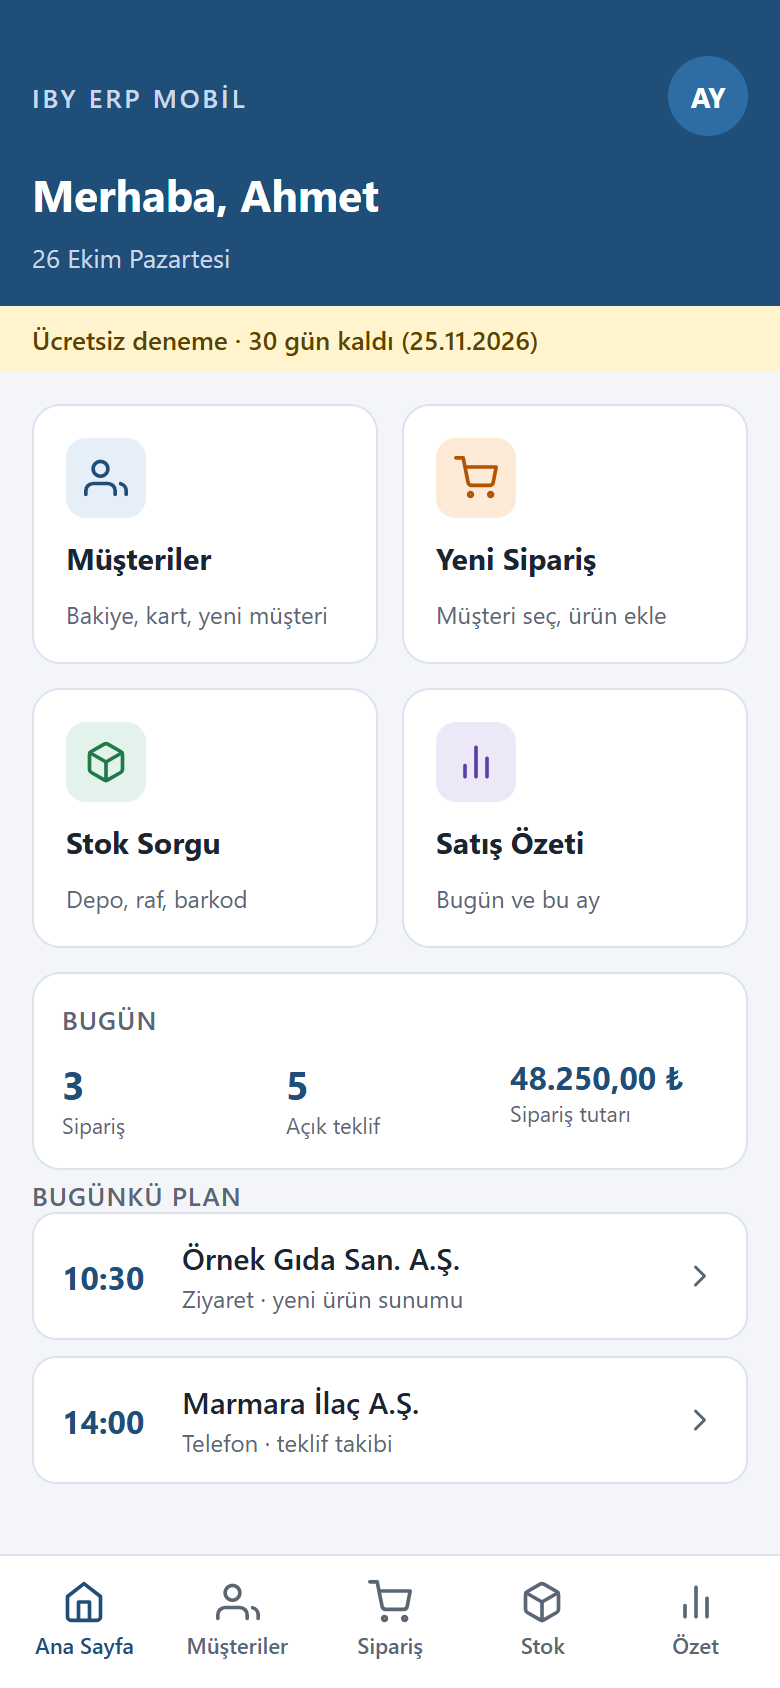
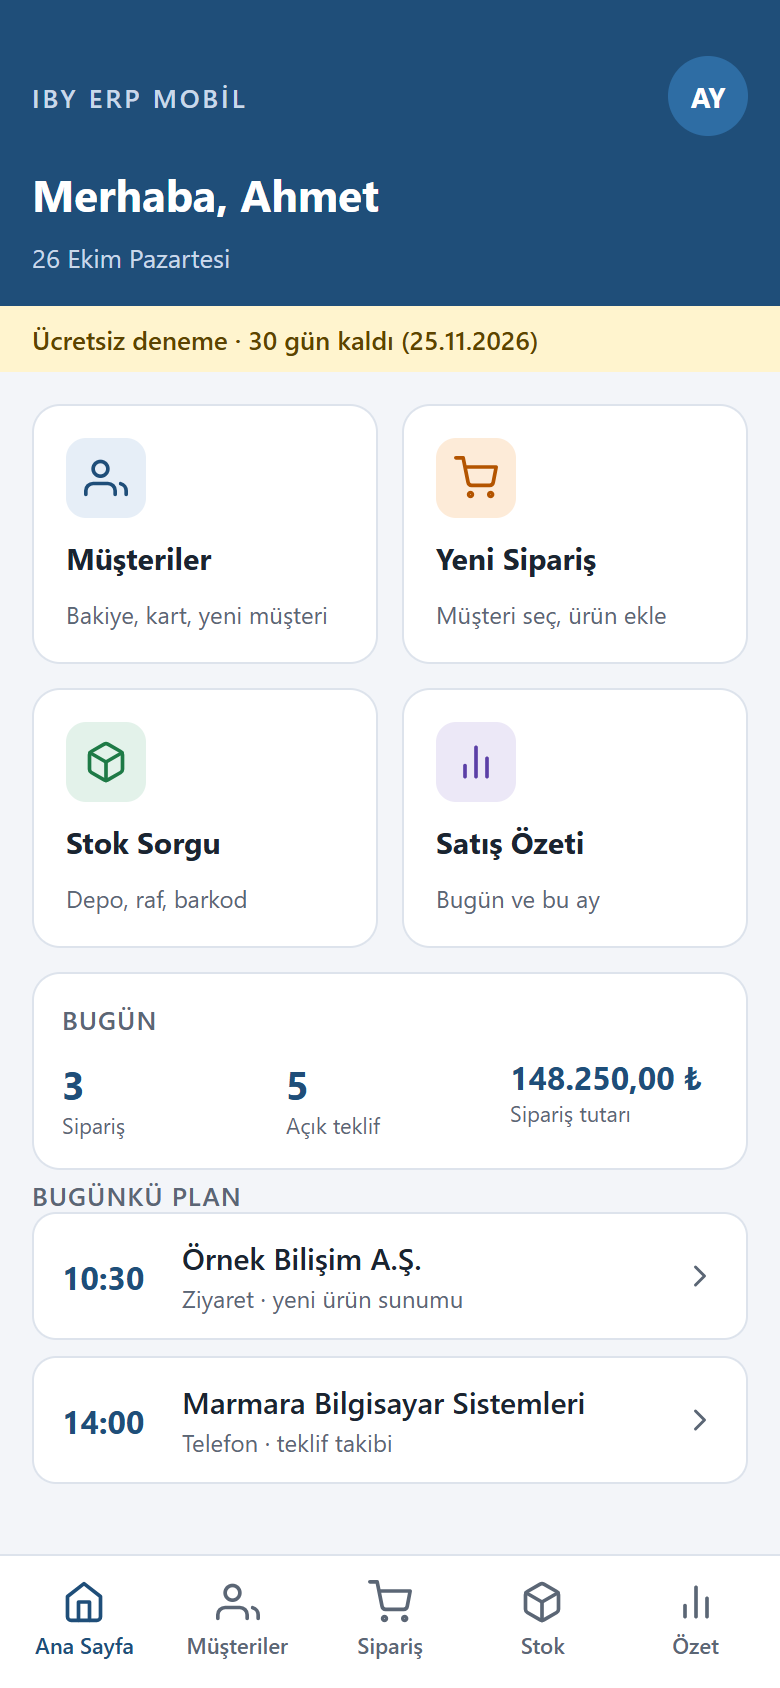
Mobil demo: örnek veriler bilgisayar parçaları ve bilişim firmaları

diff --git a/mobil/demo/demo.js b/mobil/demo/demo.js
@@ -8,36 +8,36 @@
   function saat(h, m) { return ('0' + h).slice(-2) + ':' + ('0' + m).slice(-2); }
 
   var MUSTERI = [
-    { id: 1, kod: 'MUS00001', ad: 'Örnek Gıda San. A.Ş.', sehir: 'Bursa', vkn: '1234567890', vergi_dairesi: 'Nilüfer', yetkili: 'Mehmet Kaya', telefon: '0224 000 00 01', email: 'satinalma@ornekgida.com', adres: 'Organize Sanayi Bölgesi 3. Cad. No:12 Nilüfer/Bursa', limit: 150000, bakiye: 84250, geciken: 12400, vade: 30,
-      belgeler: [['SIP-' + 'D-0141', 'Sipariş', -4, 18600, 'YENİ'], ['IBY2026000000412', 'Fatura', -11, 42300, 'KESILDI'], ['TK-D-0088', 'Teklif', -17, 25750, 'Onaylandı']] },
-    { id: 2, kod: 'MUS00002', ad: 'Anadolu Kozmetik Ltd. Şti.', sehir: 'İstanbul', vkn: '2345678901', vergi_dairesi: 'Tuzla', yetkili: 'Ayşe Demir', telefon: '0216 000 00 02', email: 'info@anadolukozmetik.com', adres: 'Aydınlı Mah. Sanayi Sok. No:4 Tuzla/İstanbul', limit: 60000, bakiye: 12400, geciken: 0, vade: 45,
-      belgeler: [['SIP-D-0137', 'Sipariş', -7, 12400, 'SEVK EDİLDİ']] },
-    { id: 3, kod: 'MUS00003', ad: 'Marmara İlaç A.Ş.', sehir: 'Kocaeli', vkn: '3456789012', vergi_dairesi: 'Gebze', yetkili: 'Can Öztürk', telefon: '0262 000 00 03', email: 'tedarik@marmarailac.com', adres: 'GOSB İhsan Dede Cad. No:8 Gebze/Kocaeli', limit: 120000, bakiye: 56900, geciken: 0, vade: 60,
-      belgeler: [['TK-D-0091', 'Teklif', -6, 38200, 'Taslak'], ['IBY2026000000398', 'Fatura', -20, 56900, 'KESILDI']] },
-    { id: 4, kod: 'MUS00004', ad: 'Yeşil Vadi Süt Ürünleri', sehir: 'Balıkesir', vkn: '4567890123', vergi_dairesi: 'Bandırma', yetkili: 'Zeynep Arslan', telefon: '0266 000 00 04', email: '', adres: 'Bandırma/Balıkesir', limit: 40000, bakiye: 0, geciken: 0, vade: 30,
-      belgeler: [['IBY2026000000377', 'Fatura', -24, 9800, 'Ödendi']] },
-    { id: 5, kod: 'MUS00005', ad: 'Ege Kimya Tic. Ltd. Şti.', sehir: 'İzmir', vkn: '5678901234', vergi_dairesi: 'Torbalı', yetkili: 'Murat Şahin', telefon: '0232 000 00 05', email: '', adres: 'Torbalı/İzmir', limit: 50000, bakiye: 21750, geciken: 3200, vade: 30,
-      belgeler: [['SIP-D-0129', 'Sipariş', -14, 21750, 'SEVK EDİLDİ']] },
-    { id: 6, kod: 'MUS00006', ad: 'Kuzey Lojistik A.Ş.', sehir: 'Ankara', vkn: '6789012345', vergi_dairesi: 'Ostim', yetkili: 'Elif Aydın', telefon: '0312 000 00 06', email: '', adres: 'Ostim OSB Ankara', limit: 80000, bakiye: 31200, geciken: 0, vade: 30, belgeler: [] }
+    { id: 1, kod: 'MUS00001', ad: 'Örnek Bilişim A.Ş.', sehir: 'Bursa', vkn: '1234567890', vergi_dairesi: 'Nilüfer', yetkili: 'Mehmet Kaya', telefon: '0224 000 00 01', email: 'satinalma@ornekbilisim.com', adres: 'Fethiye Mah. Teknoloji Cad. No:12 Nilüfer/Bursa', limit: 250000, bakiye: 184250, geciken: 22400, vade: 30,
+      belgeler: [['SIP-D-0141', 'Sipariş', -4, 48600, 'YENİ'], ['IBY2026000000412', 'Fatura', -11, 92300, 'KESILDI'], ['TK-D-0088', 'Teklif', -17, 125750, 'Onaylandı']] },
+    { id: 2, kod: 'MUS00002', ad: 'Anadolu Teknoloji Ltd. Şti.', sehir: 'İstanbul', vkn: '2345678901', vergi_dairesi: 'Kadıköy', yetkili: 'Ayşe Demir', telefon: '0216 000 00 02', email: 'info@anadoluteknoloji.com', adres: 'Hasanpaşa Mah. No:4 Kadıköy/İstanbul', limit: 150000, bakiye: 62400, geciken: 0, vade: 45,
+      belgeler: [['SIP-D-0137', 'Sipariş', -7, 62400, 'SEVK EDİLDİ']] },
+    { id: 3, kod: 'MUS00003', ad: 'Marmara Bilgisayar Sistemleri', sehir: 'Kocaeli', vkn: '3456789012', vergi_dairesi: 'İzmit', yetkili: 'Can Öztürk', telefon: '0262 000 00 03', email: 'tedarik@marmarabilgisayar.com', adres: 'Kozluk Mah. No:8 İzmit/Kocaeli', limit: 120000, bakiye: 56900, geciken: 0, vade: 60,
+      belgeler: [['TK-D-0091', 'Teklif', -6, 138200, 'Taslak'], ['IBY2026000000398', 'Fatura', -20, 56900, 'KESILDI']] },
+    { id: 4, kod: 'MUS00004', ad: 'Yeşil Vadi Eğitim Kurumları', sehir: 'Balıkesir', vkn: '4567890123', vergi_dairesi: 'Karesi', yetkili: 'Zeynep Arslan', telefon: '0266 000 00 04', email: '', adres: 'Karesi/Balıkesir', limit: 80000, bakiye: 0, geciken: 0, vade: 30,
+      belgeler: [['IBY2026000000377', 'Fatura', -24, 79800, 'Ödendi']] },
+    { id: 5, kod: 'MUS00005', ad: 'Ege Ofis Çözümleri Ltd. Şti.', sehir: 'İzmir', vkn: '5678901234', vergi_dairesi: 'Bornova', yetkili: 'Murat Şahin', telefon: '0232 000 00 05', email: '', adres: 'Bornova/İzmir', limit: 90000, bakiye: 41750, geciken: 8200, vade: 30,
+      belgeler: [['SIP-D-0129', 'Sipariş', -14, 41750, 'SEVK EDİLDİ']] },
+    { id: 6, kod: 'MUS00006', ad: 'Kuzey Yazılım ve Danışmanlık', sehir: 'Ankara', vkn: '6789012345', vergi_dairesi: 'Çankaya', yetkili: 'Elif Aydın', telefon: '0312 000 00 06', email: '', adres: 'Teknokent Çankaya/Ankara', limit: 100000, bakiye: 31200, geciken: 0, vade: 30, belgeler: [] }
   ];
   var URUN = [
-    { id: 11, kod: 'ETK-KS-100x50', ad: 'Kuşe Etiket 100×50 mm', birim: 'Adet', fiyat: 0.42, kdv: 20, barkod: '8690000000017',
-      depolar: [['Merkez Depo', [['A-01-02', 'L2610', 32000], ['A-01-03', 'L2614', 16000]]], ['Sevkiyat Deposu', [['S-02', '', 4000]]]] },
-    { id: 12, kod: 'ETK-TR-58x40', ad: 'Termal Etiket 58×40 mm', birim: 'Adet', fiyat: 0.18, kdv: 20, barkod: '8690000000024',
-      depolar: [['Merkez Depo', [['B-04-01', 'L2598', 125000]]]] },
-    { id: 13, kod: 'ETK-PP-80x60', ad: 'Opak PP Etiket 80×60 mm', birim: 'Adet', fiyat: 0.65, kdv: 20, barkod: '8690000000031',
-      depolar: [['Merkez Depo', [['A-02-01', '', 3200]]]] },
-    { id: 14, kod: 'RBN-WAX-110', ad: 'Wax Ribon 110 mm × 300 m', birim: 'Rulo', fiyat: 145, kdv: 20, barkod: '8690000000048',
-      depolar: [['Merkez Depo', [['C-01', '', 64]]], ['Sevkiyat Deposu', [['S-01', '', 22]]]] },
-    { id: 15, kod: 'RBN-RES-110', ad: 'Resin Ribon 110 mm × 300 m', birim: 'Rulo', fiyat: 310, kdv: 20, barkod: '8690000000055',
-      depolar: [['Merkez Depo', [['C-02', '', 18]]]] },
-    { id: 16, kod: 'ETK-KR-40x30', ad: 'Kraft Etiket 40×30 mm', birim: 'Adet', fiyat: 0.29, kdv: 20, barkod: '8690000000062', depolar: [] },
-    { id: 17, kod: 'KLS-75-4000', ad: 'Karton Kutu 40×30×30', birim: 'Adet', fiyat: 18.5, kdv: 20, barkod: '8690000000079',
-      depolar: [['Merkez Depo', [['D-01', '', 850]]]] },
-    { id: 18, kod: 'STR-500', ad: 'Streç Film 50 cm', birim: 'Rulo', fiyat: 96, kdv: 20, barkod: '8690000000086',
-      depolar: [['Sevkiyat Deposu', [['S-03', '', 140]]]] }
+    { id: 11, kod: 'SSD-1TB-NVME', ad: 'SSD 1 TB NVMe M.2', birim: 'Adet', fiyat: 2450, kdv: 20, barkod: '8690000000017',
+      depolar: [['Merkez Depo', [['A-01-02', 'L2610', 64], ['A-01-03', 'L2614', 32]]], ['Mağaza', [['M-02', '', 8]]]] },
+    { id: 12, kod: 'RAM-16-DDR5', ad: 'RAM 16 GB DDR5 5600 MHz', birim: 'Adet', fiyat: 1850, kdv: 20, barkod: '8690000000024',
+      depolar: [['Merkez Depo', [['A-02-01', 'L2598', 120]]], ['Mağaza', [['M-01', '', 14]]]] },
+    { id: 13, kod: 'CPU-I5-14400', ad: 'İşlemci Intel Core i5-14400', birim: 'Adet', fiyat: 7900, kdv: 20, barkod: '8690000000031',
+      depolar: [['Merkez Depo', [['B-01-01', '', 3]]]] },
+    { id: 14, kod: 'GPU-RTX4060', ad: 'Ekran Kartı RTX 4060 8 GB', birim: 'Adet', fiyat: 13500, kdv: 20, barkod: '8690000000048',
+      depolar: [['Merkez Depo', [['B-02-01', '', 18]]], ['Mağaza', [['M-03', '', 2]]]] },
+    { id: 15, kod: 'MON-24-IPS', ad: 'Monitör 24" IPS 165 Hz', birim: 'Adet', fiyat: 4200, kdv: 20, barkod: '8690000000055',
+      depolar: [['Merkez Depo', [['C-01', '', 26]]]] },
+    { id: 16, kod: 'PSU-650-BRZ', ad: 'Güç Kaynağı 650 W 80+ Bronze', birim: 'Adet', fiyat: 1650, kdv: 20, barkod: '8690000000062', depolar: [] },
+    { id: 17, kod: 'KLV-MEK-TRQ', ad: 'Mekanik Klavye Türkçe Q', birim: 'Adet', fiyat: 1250, kdv: 20, barkod: '8690000000079',
+      depolar: [['Merkez Depo', [['D-01', '', 45]]], ['Mağaza', [['M-04', '', 6]]]] },
+    { id: 18, kod: 'MOU-KBS', ad: 'Kablosuz Mouse', birim: 'Adet', fiyat: 390, kdv: 20, barkod: '8690000000086',
+      depolar: [['Mağaza', [['M-04', '', 60]]]] }
   ];
-  var siparisSay = 3, tutar = 48250, teklif = 5, sira = 141;
+  var siparisSay = 3, tutar = 148250, teklif = 5, sira = 141;
 
   function stok(u) { return u.depolar.reduce(function (t, d) { return t + d[1].reduce(function (a, r) { return a + r[2]; }, 0); }, 0); }
   function uOzet(u) { return { id: u.id, kod: u.kod, ad: u.ad, birim: u.birim, fiyat: u.fiyat, kdv: u.kdv, stok: stok(u) }; }
@@ -58,9 +58,9 @@
 
   var API = {
     'GET ozet': function () {
-      return { bugun_siparis: siparisSay, bugun_siparis_tutar: tutar, bekleyen_teklif: teklif, ay_fatura_adet: 37, ay_satis: 1284500,
-               plan: [{ saat: saat(10, 30), tur: 'Ziyaret', konu: 'yeni ürün sunumu', musteri: 'Örnek Gıda San. A.Ş.', musteri_id: 1 },
-                      { saat: saat(14, 0), tur: 'Telefon', konu: 'teklif takibi', musteri: 'Marmara İlaç A.Ş.', musteri_id: 3 }] };
+      return { bugun_siparis: siparisSay, bugun_siparis_tutar: tutar, bekleyen_teklif: teklif, ay_fatura_adet: 37, ay_satis: 2684500,
+               plan: [{ saat: saat(10, 30), tur: 'Ziyaret', konu: 'yeni ürün sunumu', musteri: 'Örnek Bilişim A.Ş.', musteri_id: 1 },
+                      { saat: saat(14, 0), tur: 'Telefon', konu: 'teklif takibi', musteri: 'Marmara Bilgisayar Sistemleri', musteri_id: 3 }] };
     },
     'GET musteriler': function (q) { return MUSTERI.filter(ara(q.ara, ['ad', 'kod', 'sehir', 'vkn'])).map(function (m) { return { id: m.id, kod: m.kod, ad: m.ad, sehir: m.sehir, bakiye: m.bakiye }; }); },
     'GET musteri': function (q) { var m = MUSTERI.filter(function (x) { return x.id === +q.id; })[0]; if (!m) hata('Müşteri bulunamadı.'); return mDetay(m); },
